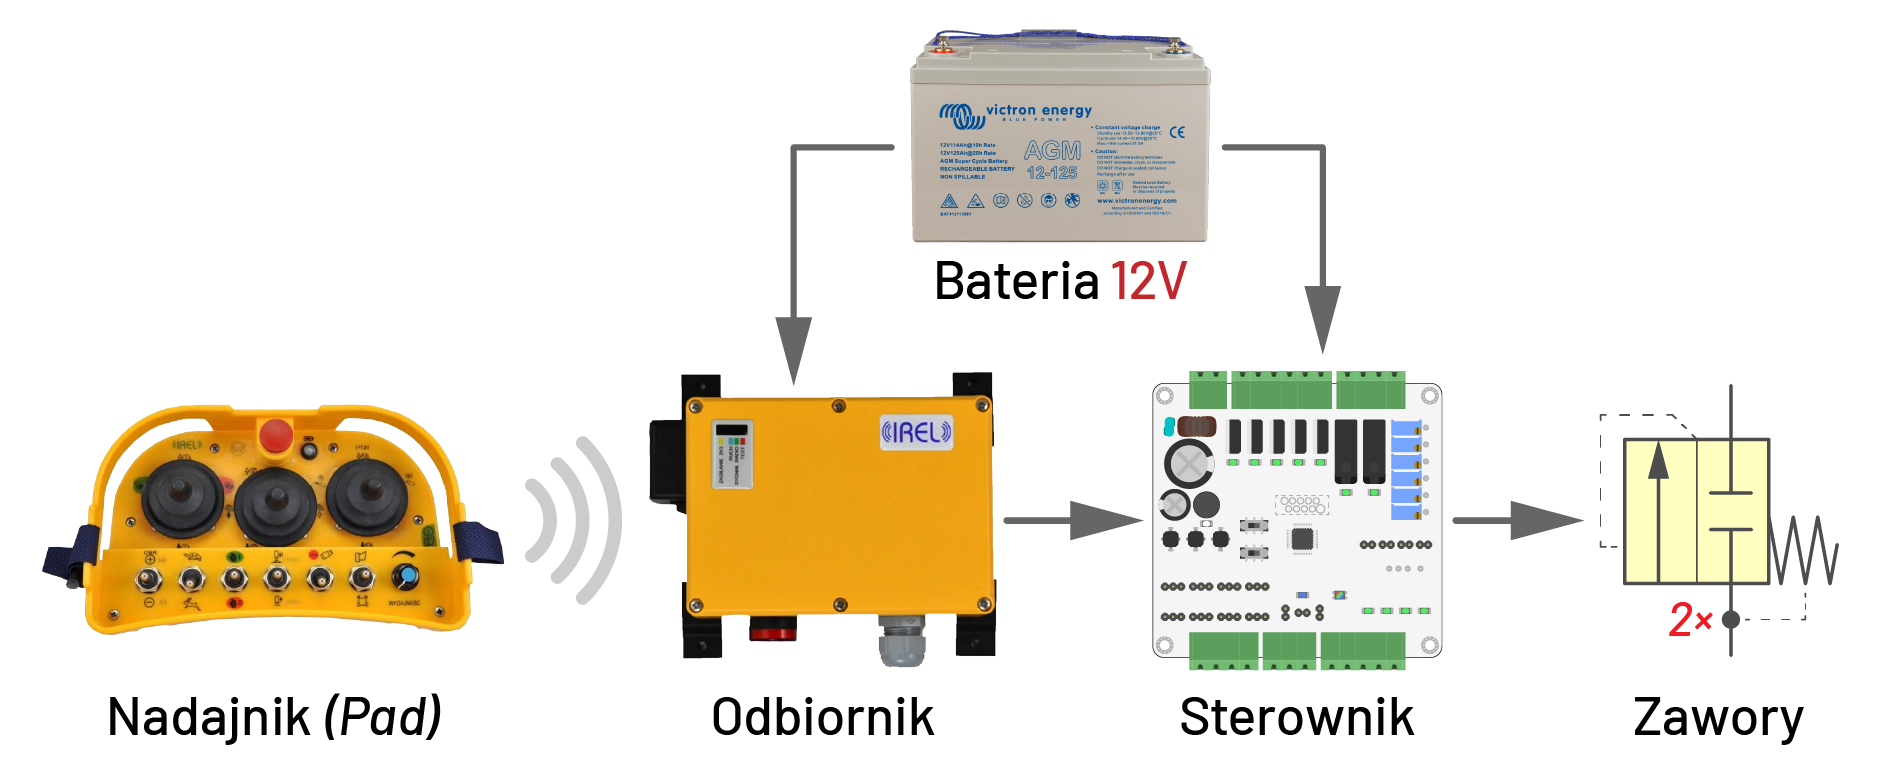
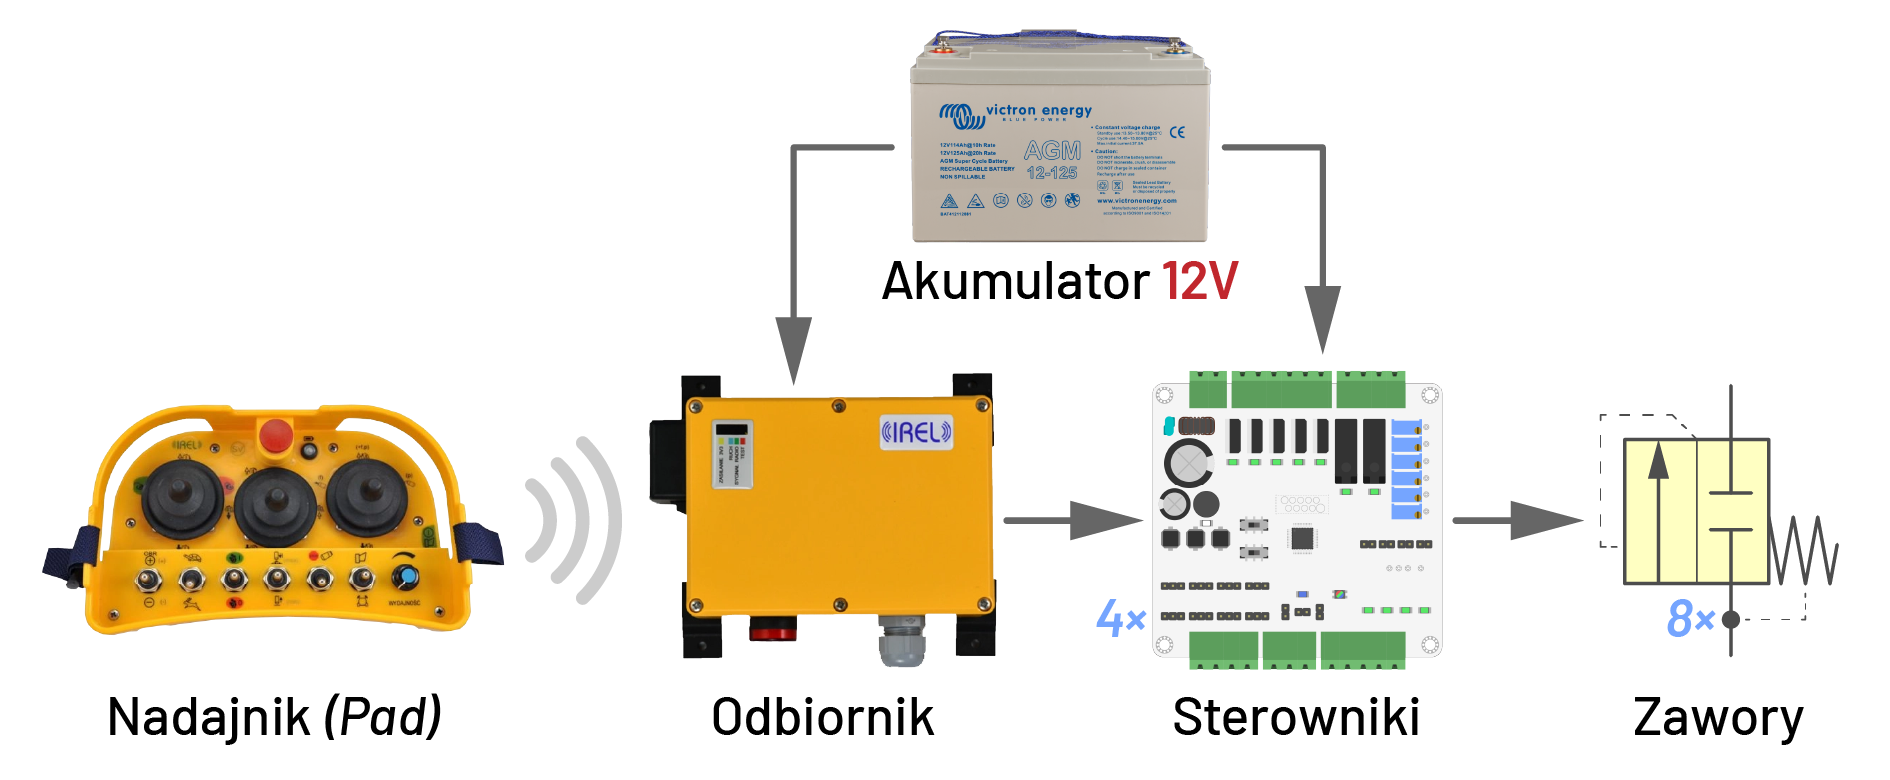
Delete end param

diff --git a/readme.md b/readme.md
@@ -69,9 +69,8 @@ Aby użytkownik mógł swobodnie dostosować działanie funkcji sterującej do k
 
 - `start` — wartość `x` określająca szerokość strefy martwej sygnału sterującego,
 - `min` — wartość aktywacyjna `y`, od której zawór zaczyna się otwierać,
-- `end` — wartość `x` określająca moment całkowitego otwarcia zaworu,
 - `max` — wartość końcowa `y`, przy której zawór osiąga pełne otwarcie,
-- `ramp` — parametr kształtujący krzywiznę funkcji (np. parabolicznej lub wykładniczej).
+- `ramp` — parametr kształtujący krzywiznę funkcji _(np. parabolicznej lub wykładniczej)_.
 
 Warto również zapewnić dodatkowe parametry, które poprawiają ergonomię obsługi oraz wydłużają żywotność zaworów:
 
@@ -167,8 +166,7 @@ make run # Wgranie programu do sterownika
 ```
 
 
-W publikacji przedstawiono wyłącznie wycinek[^10] dotyczący sterowania zaworami, obejmujący modelowanie oraz aktywację sygnałów sterujących, z pominięciem pobierania sygnałów wejściowych i ich filtracji. Wartości `cfg.start` oraz `cfg.end` mieszczą się w zakresie **0..100%**, ponieważ funkcja wyjściowa `DOUT_Duty` oczekuje wartości procentowej. Pozostałe parametry są znormalizowane do zakresu **0..1**.
-
+W publikacji przedstawiono wyłącznie wycinek[^10] dotyczący sterowania zaworami, obejmujący modelowanie oraz aktywację sygnałów sterujących, z pominięciem pobierania sygnałów wejściowych i ich filtracji. Wartość `cfg.start` mieści się w zakresie **0..100%**, ponieważ funkcja wyjściowa `DOUT_Duty` oczekuje wartości procentowej. Pozostałe parametry są znormalizowane do zakresu **0..1**.
 
 ```c
 void disable_valves(void)
@@ -194,7 +192,7 @@ void loop(void)
       disable_valves();
       continue;
     }
-    float a = (cfg.max - cfg.min) / (cfg.end - cfg.start);
+    float a = (cfg.max - cfg.min) / (100.0 - cfg.start);
     float b = cfg.min - (a * cfg.start);
     float out = pow(in, cfg.ramp) * a + b; // Przeliczenie wartości `in` (x) na `out` (y)
     if(out > cfg.max) out = cfg.max; // Ograniczenie wartości do `cfg.max`
